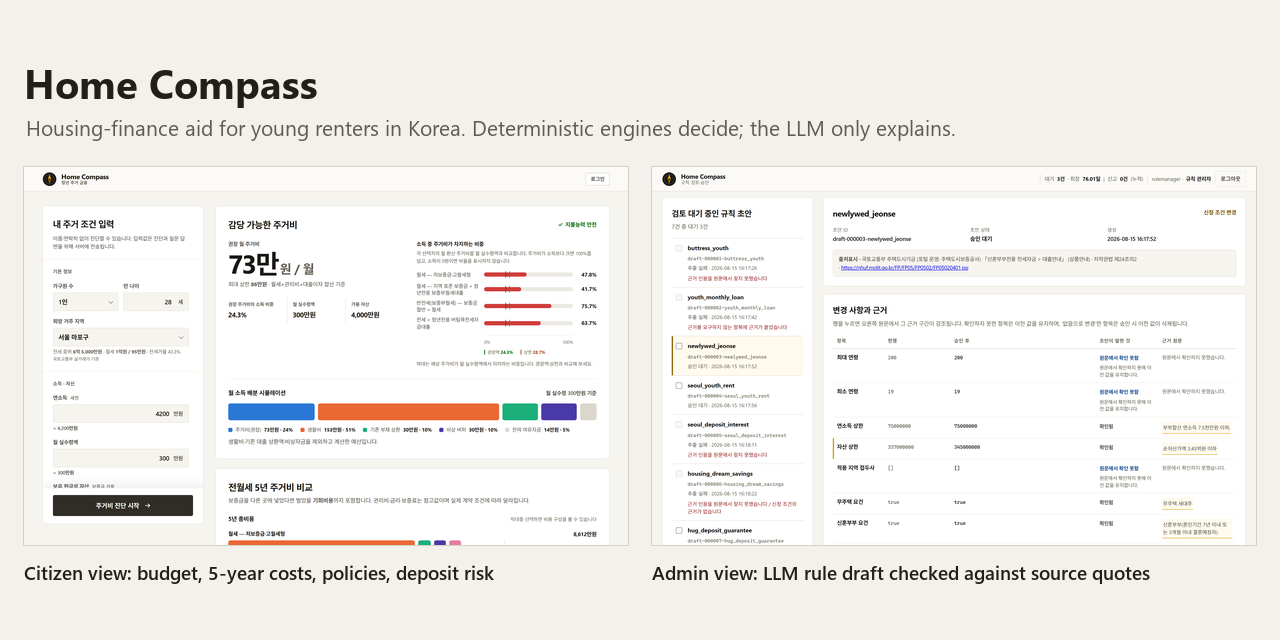
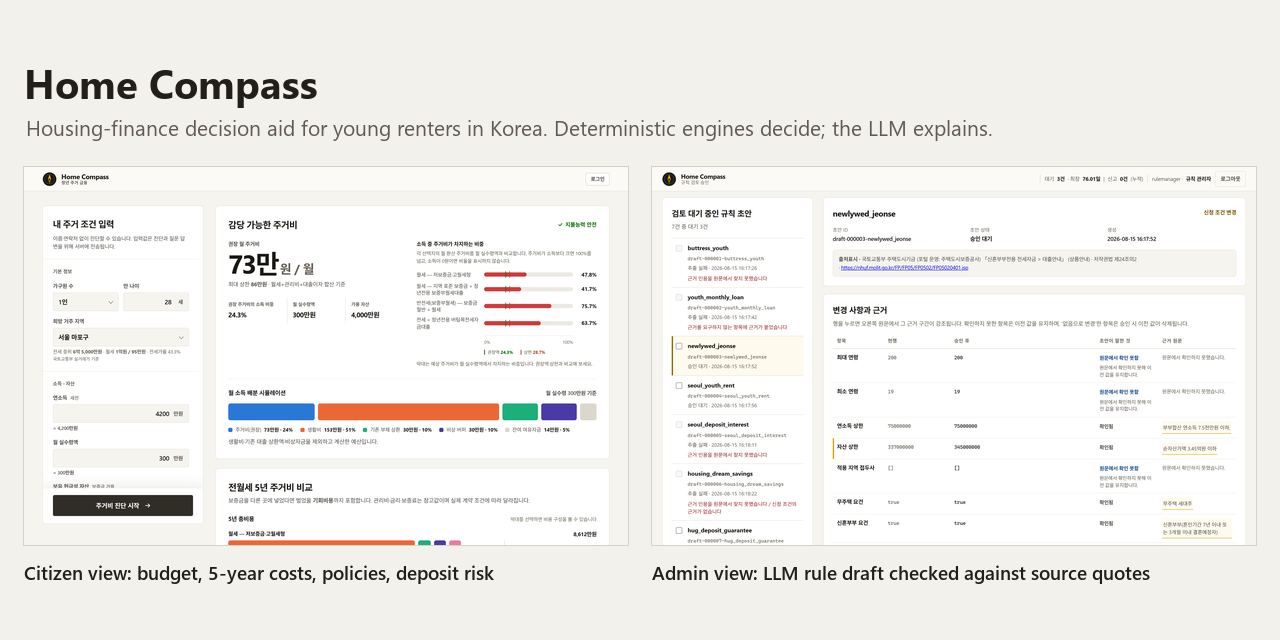
README: correct the run steps and the LLM's role, restore the disclaimer
The hero subtitle said the LLM only explains, but it also drafts rule
changes that a person approves, so the image is rebuilt with the new
line. dev.bat runs the full test suite before it seeds, so it also
needs Node.js and docs/competition/requirements.txt. Seed passwords
are random and printed once, not one-time passwords, and values put
in .env are ignored. The parity test runs only the JavaScript port
under Node.

The bold summary lines repeated later sections and are removed. The
CI badge moves under the title and the build dates move to Project
context. The disclaimer from the Korean README is back: results are
not a loan approval or legal, tax or investment advice.

contracts/README.md and regions.json no longer point at the deleted
HANDOFF.md and REHEARSAL.md.

Changed region(s): [[0.125, 0.1875, 0.7812, 0.2188]]

diff --git a/README.md b/README.md
@@ -1,18 +1,14 @@
 # Home Compass
 
+[![CI](https://github.com/dnhynk/Home_Compass/actions/workflows/ci.yml/badge.svg)](https://github.com/dnhynk/Home_Compass/actions/workflows/ci.yml)
+
 Home Compass helps young renters in Korea choose a lease they can afford: it sets a monthly housing budget, compares the five-year cost of jeonse (a lump-sum deposit lease) and wolse (monthly rent), checks eligibility for public housing-finance programs and scores the risk of losing a deposit.
 
 Four deterministic engines compute every amount and verdict, the LLM calls them as tools to explain the results, and a policy rule the LLM drafts takes effect only after its source quotes pass a verbatim check and a rule manager approves it.
 
 ![Citizen view and admin rule-review view of Home Compass](docs/images/hero.png)
 
-Left: the citizen view for the sample profile in Results. Right: rule review; four of the seven LLM drafts in the queue failed the evidence check, and the open draft raises an asset cap from 337 to 345 million won, citing "순자산가액 3.45억원 이하" (net assets of 345 million won or less). The UI is in Korean. Full size: [citizen view](docs/images/citizen.png), [rule review](docs/images/rule-review.png).
-
-**Context:** Solo entry to the 2026 Financial AI Challenge, organized by Korea's Financial Security Institute; built in August and September 2026 and submitted to the preliminary round.
-
-**Verified:** [![CI](https://github.com/dnhynk/Home_Compass/actions/workflows/ci.yml/badge.svg)](https://github.com/dnhynk/Home_Compass/actions/workflows/ci.yml) CI passed the full suite on 2026-09-21, including the architecture test and a parity test that runs 132 profile-by-region cases through the Python engines and their browser port with identical results. A local rerun on 2026-10-31 matched.
-
-**Status:** Contest MVP, no longer maintained. The judging demo is offline. Program rules are sample figures and some market fields are placeholders, so every analysis is graded C (unverified data).
+Left: the citizen view for the sample profile in Results. Right: rule review. Four of the seven LLM drafts in the queue failed the evidence check, and the open draft raises an asset cap from 337 to 345 million won, citing "순자산가액 3.45억원 이하" (net assets of 345 million won or less). The UI is in Korean. Full size: [citizen view](docs/images/citizen.png), [rule review](docs/images/rule-review.png).
 
 ## What it does
 
@@ -20,33 +16,32 @@ Left: the citizen view for the sample profile in Results. Right: rule review; fo
 - Five-year cost: four lease options, from low-deposit wolse to loan-financed jeonse, compared by total cost, net present value and monthly equivalent. Loan interest, maintenance fees, deposit guarantee fees and the opportunity cost of the deposit are included.
 - Program eligibility: the profile is checked against 8 housing-finance programs, with a pass or fail reason for each criterion.
 - Deposit risk: a 0 to 100 score from five factors, including the deposit-to-price ratio, the loan share of the deposit and whether a return guarantee is available.
-- Staff screens: counselors see internal fields such as rule versions and report data errors; only the rule-manager role can approve or reject LLM-drafted rule changes (`backend/src/home_compass/auth.py`), and every decision goes to an append-only audit log.
+- Staff screens: counselors can see internal fields such as rule versions and can flag data errors. Only the rule-manager role can approve or reject LLM-drafted rule changes (`backend/src/home_compass/auth.py`), and every decision goes to an append-only audit log.
 
 ## How it works
 
-- Engines: `backend/src/home_compass/engines/` holds four pure functions: `affordability.py` (monthly housing-cost cap), `tco.py` (five-year cost per lease option), `eligibility.py` (program eligibility) and `risk.py` (deposit risk). Every constant is passed in from the registry in `contracts/model_constants.json`. `backend/tests/crosscheck/test_architecture.py` parses the imports and fails if `engines/` imports the LLM, store, ingest, auth, config or API modules.
+- Engines: `backend/src/home_compass/engines/` holds the four engines, written as pure functions (no I/O, and the clock is passed in): `affordability.py` (monthly housing-cost cap), `tco.py` (five-year cost per lease option), `eligibility.py` (program eligibility) and `risk.py` (deposit risk). Every constant is passed in from the registry in `contracts/model_constants.json`. `backend/tests/crosscheck/test_architecture.py` parses the imports and fails if `engines/` imports the LLM, store, ingest, auth, config or API modules.
 - Chat: `backend/src/home_compass/llm/agent.py` gives an OpenAI or Anthropic model the four engines as tools, and its system prompt requires every number in a reply to come from a tool result. Without an API key, a fixed template writes the reply from the same engine output.
-- Rule drafts: `backend/src/home_compass/llm/extraction.py` asks a model to turn a policy document into a draft rule with a source quote for each field. `backend/src/home_compass/ingest/extraction_verify.py` rejects the draft if the schema fails, a field has no quote, or a quote is not found character for character in the stored text (`backend/tests/ingest/test_extraction_verify.py`). The review screen shows each quote in the source and how the verdicts for 12 test profiles would change; the draft becomes a new rule version only when a rule manager approves it (`backend/tests/api/test_admin_review.py`).
-- Browser port: `frontend/local_engine.js` reimplements the engines in JavaScript, so the citizen page still computes results when the API is unreachable. It reads constants, policies and regions from `frontend/generated/`, which `scripts/gen_contracts.py` writes from the backend's sources. `backend/tests/test_frontend_local_engine_equivalence.py` runs both sides under Node and compares numbers, policy reasons and data lineage.
+- Rule drafts: `backend/src/home_compass/llm/extraction.py` asks a model to turn a policy document into a draft rule with a source quote for each field. `backend/src/home_compass/ingest/extraction_verify.py` rejects the draft if the schema fails, a field has no quote, or a quote is not found character for character in the stored text (`backend/tests/ingest/test_extraction_verify.py`). The review screen shows each quote in the source and how the verdicts for 12 test profiles would change. The draft becomes a new rule version only when a rule manager approves it (`backend/tests/api/test_admin_review.py`).
+- Browser port: `frontend/local_engine.js` reimplements the engines in JavaScript, so the citizen page still computes results when the API is unreachable. It reads constants, policies and regions from `frontend/generated/`, which `scripts/gen_contracts.py` writes from the backend's sources. `backend/tests/test_frontend_local_engine_equivalence.py` runs the JavaScript port under Node and compares its numbers, policy reasons and data lineage with the Python engines.
 - Provenance: each analysis lists the source, observation time and verification status of every fact it used, plus a data grade set by the weakest fact (`contracts/provenance.schema.json`, `backend/tests/api/test_analyze_lineage.py`). Unverified values stay in the response and lower the grade.
 
-Start reading here: `backend/src/home_compass/engines/` and `backend/tests/crosscheck/test_architecture.py`. `backend/src/home_compass/main.py` is very large (about 181 KB, 3,860 lines) and holds every API route.
+Start reading here: `backend/src/home_compass/engines/` and `backend/tests/crosscheck/test_architecture.py`. `backend/src/home_compass/main.py` is large (about 181 KB, 3,860 lines) and holds every API route.
 
 ## Results
 
-The numbers below come from CI and local runs. No contest result is recorded here.
-
 - CI (GitHub Actions, Ubuntu, Python 3.13) runs `pytest backend/tests` on every push to main. On commit 698eb0f (2026-09-21) it reported 2,446 passed and 2 skipped. A local run on 2026-10-31 (Windows 11, Python 3.13) gave the same counts.
-- Engine parity: 12 regression profiles, each run as written and in all 10 seeded regions, give 132 cases. The Python engines and `frontend/local_engine.js` return the same numbers in all 132 and the same policy reasons and lineage in the 131 cases with a valid region code; both reject the invalid one.
+- Engine parity: 12 regression profiles, each run as written and in all 10 seeded regions, give 132 cases. The Python engines and `frontend/local_engine.js` return the same numbers in all 132 and the same policy reasons and lineage in the 131 cases with a valid region code. Both reject the invalid one.
 - Rule extraction: the seeded batch (gpt-5.4-mini, 7 policy documents, 2026-08-16 KST) produced 3 drafts that passed verification and 4 that were rejected. Three quoted text that is not in the source, and one attached a quote to a field that takes none. Two reruns of the same batch passed 3 and 5 of 7. The first run is stored unedited in `backend/src/home_compass/data/rule_drafts.json`.
-- Sample analysis, as in the screenshot: age 28, one-person household, no home owned, works at a small or medium business, Mapo-gu in Seoul, 42 million won a year, 3 million won take-home pay a month, 40 million won in savings, 300,000 won a month in debt payments. Result: 730,000 won a month recommended, 860,000 won maximum; 4 programs eligible, 1 conditional, 3 not eligible.
+- Sample analysis, as in the screenshot: age 28, one-person household, no home owned, works at a small or medium business, Mapo-gu in Seoul, 42 million won a year, 3 million won take-home pay a month, 40 million won in savings, 300,000 won a month in debt payments. Result: 730,000 won a month recommended and 860,000 won maximum, with 4 programs eligible, 1 conditional and 3 not eligible.
 
 ## Status and limitations
 
-- Contest MVP; maintenance stopped in September 2026. The demo used for judging is offline; run it locally.
+- Contest MVP. Maintenance stopped in September 2026 and the demo used for judging is offline, so run it locally.
 - The 8 program rules hold sample figures that may differ from current program terms. Market data for 10 regions comes from the real-transaction API of MOLIT (Korea's Ministry of Land, Infrastructure and Transport), fetched on 2026-08-15 and frozen. Three of its eight fields (maintenance fee, market risk, guarantee availability) are example values. These unverified inputs put every analysis at grade C.
-- 71 of the 83 model constants are judgment calls that have no single correct value. `backend/tests/artifacts/sensitivity.md` shows which verdicts flip when each is moved by 5% or 20%.
-- Nothing checks the chat text after the model writes it. A reply can misquote a number; the result cards always show the engine output.
+- Results are information only. They are not approval of a loan or other financial product, legal or tax advice, or an investment recommendation. Before signing a contract, check the latest official texts and guidance from the institutions involved.
+- Of the 83 model constants, 71 are judgment calls with no single correct value. `backend/tests/artifacts/sensitivity.md` shows which verdicts flip when each is moved by 5% or 20%.
+- Nothing checks the chat text after the model writes it. A reply can misquote a number, but the result cards always show the engine output.
 - The review queue holds one frozen extraction batch. Collecting new policy notices and re-extracting them is not automated.
 - Login sessions live in process memory, so the server must run as one process with one worker.
 
@@ -60,9 +55,13 @@ python scripts/seed_store.py
 cd backend/src && python -m uvicorn home_compass.main:app --port 8000 --workers 1
 ```
 
-Open http://127.0.0.1:8000/ for the citizen view and http://127.0.0.1:8000/admin/ for staff. `http://127.0.0.1:8000/api/health` should return `{"status":"ok","llm":"offline",...}`. On first start the server prints one-time passwords for the `counselor` and `rulemanager` accounts; set `HOME_COMPASS_SEED_COUNSELOR_PASSWORD` and `HOME_COMPASS_SEED_RULE_MANAGER_PASSWORD` beforehand to choose them. For a live chat model, copy `.env.example` to `.env` and set `OPENAI_API_KEY` or `ANTHROPIC_API_KEY`. On Windows, `scripts\dev.bat` installs, runs the tests, seeds and starts the server in one step (Windows only).
+On Windows, `scripts\dev.bat` does the same in one step but runs the full test suite first, so it also needs Node.js and `pip install -r docs/competition/requirements.txt`.
 
-The test suite takes a few minutes and needs Node.js on the PATH; without it the parity tests fail.
+Open http://127.0.0.1:8000/ for the citizen view and http://127.0.0.1:8000/admin/ for staff. `http://127.0.0.1:8000/api/health` should return `{"status":"ok","llm":"offline",...}`.
+
+On first start the server creates the `counselor` and `rulemanager` accounts and prints a random password for each to stderr, once. To choose them, set the environment variables `HOME_COMPASS_SEED_COUNSELOR_PASSWORD` and `HOME_COMPASS_SEED_RULE_MANAGER_PASSWORD` before the first start (values in `.env` are ignored). For a live chat model, copy `.env.example` to `.env` and set `OPENAI_API_KEY` or `ANTHROPIC_API_KEY`.
+
+The test suite takes a few minutes and needs Node.js on the PATH. Without it, the JavaScript tests, including the parity test, fail.
 
 ```bash
 pip install -r docs/competition/requirements.txt
@@ -79,10 +78,10 @@ python -m pytest backend/tests -q
 
 ## Project context
 
-Solo entry to the 2026 Financial AI Challenge (organizer: Financial Security Institute; preliminary deadline 2026-09-07). The first commit imports my earlier prototype of the same app from a private repository; I am the only human contributor to both.
+Solo entry to the 2026 Financial AI Challenge, organized by Korea's Financial Security Institute. I built it in August and September 2026 for the preliminary round (deadline 2026-09-07). The first commit imports my earlier prototype of the same app from a private repository. I am the only human contributor to both.
 
-I wrote the specification and acceptance criteria and decided what shipped; Claude Code and Codex wrote most of the code. Commits made through Claude Code carry Co-Authored-By trailers.
+I wrote the specification and acceptance criteria and decided what shipped. Claude Code and Codex wrote most of the code. Commits made through Claude Code carry Co-Authored-By trailers.
 
 ## License
 
-MIT for the code and documents written for this project; see [LICENSE](LICENSE). The seven policy texts in `data/policy_sources/` are Korean public-sector documents and keep their own reuse terms, listed with attribution in the sources document above.
+The code and the documents written for this project are under the MIT License (see [LICENSE](LICENSE)). The seven policy texts in `data/policy_sources/` are Korean public-sector documents and keep their own reuse terms, listed with attribution in the sources document above.

diff --git a/contracts/README.md b/contracts/README.md
@@ -417,8 +417,7 @@ SPEC의 두 요구가 동시에 성립하도록 경계를 고정한 것이다.
     (결정 #7). 그래야 **추출 결과와 근거 매핑이 각각 독립적으로 검증**된다 —
     한 문서에 섞으면 span 검증 실패가 추출 실패와 구분되지 않는다.
 
-> **#19~#30 은 이 문서에 전문이 없다.** 각 PR 본문에 있고 한 줄 색인은
-> `docs/engineering/HANDOFF.md` 의 「확정된 결정」 표다. 여기 옮겨 적지 않는 이유는
+> **#19~#30 은 이 문서에 전문이 없다.** 각 PR 본문에 있다. 여기 옮겨 적지 않는 이유는
 > 같은 사실을 두 곳에 두면 한쪽만 갱신되기 때문이다 — 이 문서의 「두 종류를 섞지 않는다」와
 > 같은 규율이다. **결정의 정본은 PR 본문이고, 이 문서는 계약 파일에 걸린 것만 붙든다.**
 
